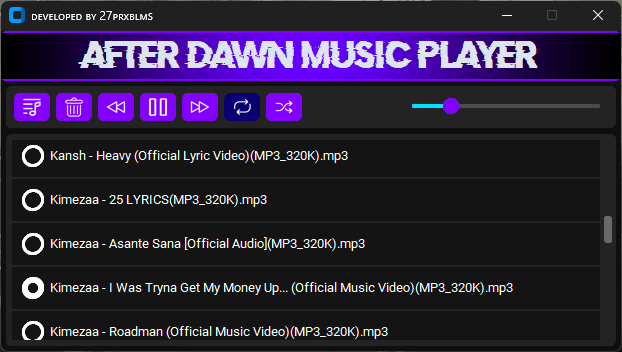
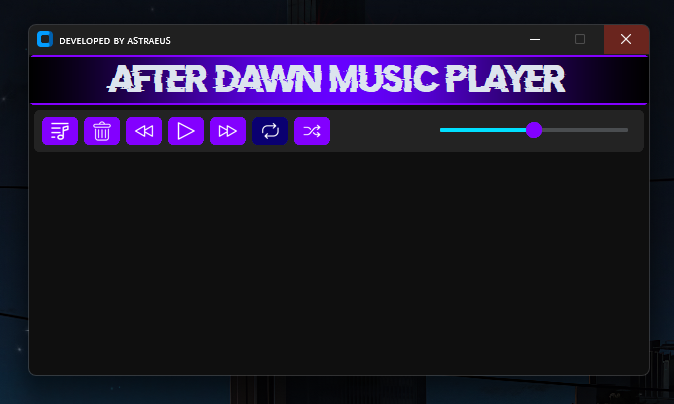
newname

Changed region(s): [[0.0, 0.0, 1.0, 1.0]]

diff --git a/main.py b/main.py
@@ -13,7 +13,7 @@ from PIL import Image
 class MusicPlayer(ctk.CTk):
     def __init__(self):
         super().__init__()
-        self.title("ᴅᴇᴠᴇʟᴏᴘᴇᴅ ʙʏ 27ᴘʀxʙʟᴍꜱ")
+        self.title("ᴅᴇᴠᴇʟᴏᴘᴇᴅ ʙʏ ᴀꜱᴛʀᴀᴇᴜꜱ")
         self.geometry(f'{app_width}x{app_height}')
         self.resizable(False, False)
 
